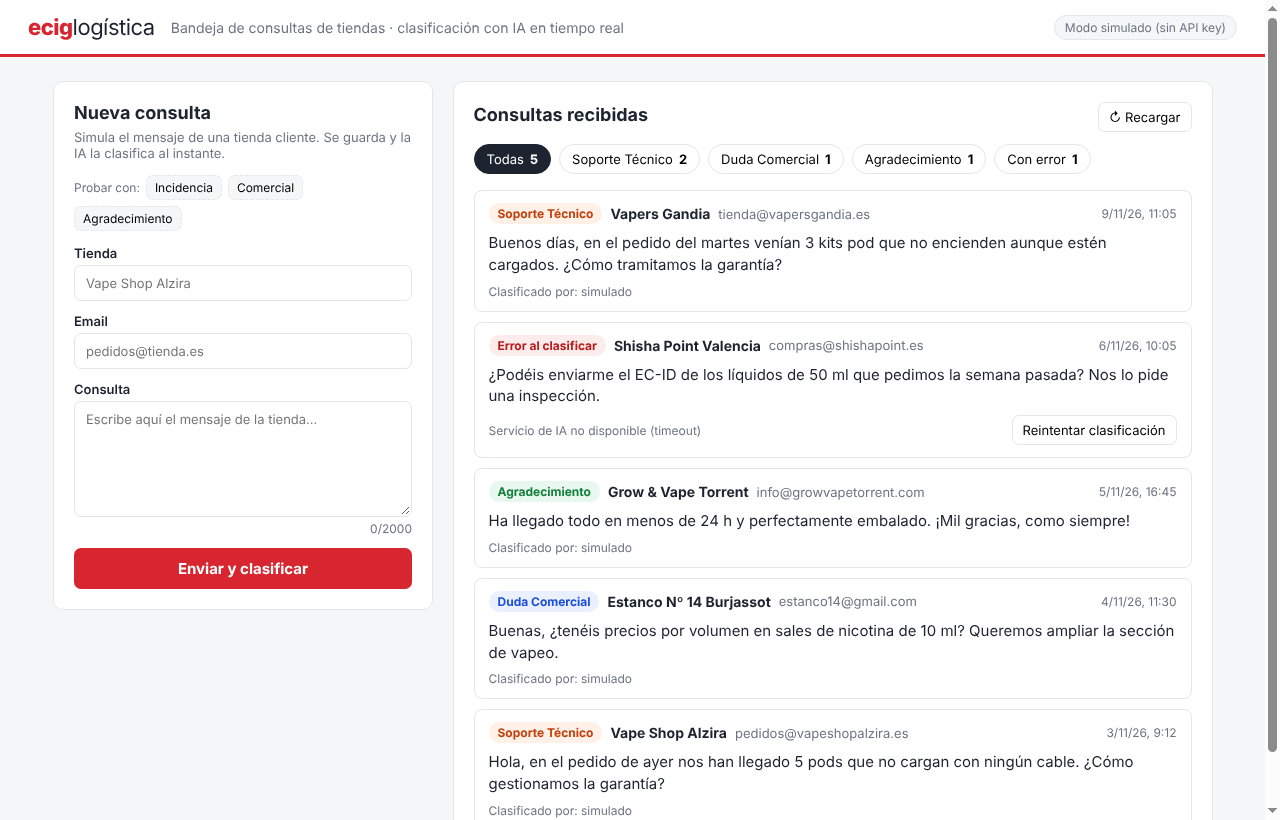
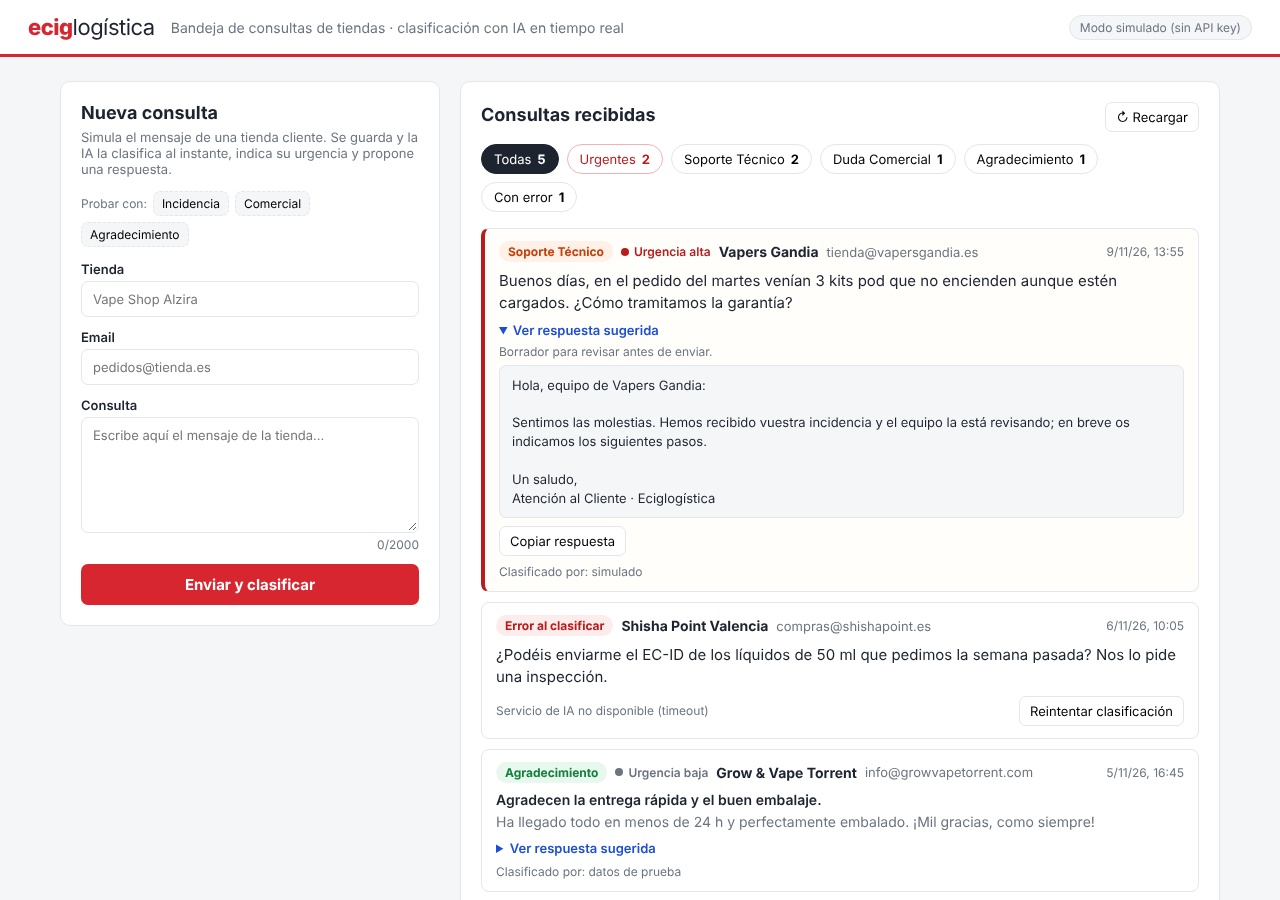
docs: documentar el asistente de respuesta y actualizar la captura

diff --git a/README.md b/README.md
@@ -2,6 +2,8 @@
 
 Una bandeja de entrada para gestionar y clasificar al momento las consultas que las **tiendas cliente** (tiendas de vapeo, estancos, grow shops...) envían a un mayorista como Eciglogística. La idea es sencilla pero sólida: cada consulta se guarda en la base de datos en cuanto llega y una IA la clasifica automáticamente como **Soporte Técnico**, **Duda Comercial** o **Agradecimiento**.
 
+Además, para ahorrar trabajo al equipo de atención al cliente, la IA indica la **urgencia** de cada consulta, la **resume en una línea** y propone un **borrador de respuesta** que una persona revisa antes de enviar.
+
 ![Captura de la aplicación](docs/captura.png)
 
 ---
@@ -32,7 +34,7 @@ Para pararlo todo: `Ctrl + C` y después `docker compose down`. ¿Quieres volver
 
 ### ¿IA real o modo simulado?
 
-* **Sin API key (por defecto):** el sistema funciona en **modo simulado**, clasificando por palabras clave. Así se puede probar el proyecto sin registrarse en ningún sitio ni gastar nada.
+* **Sin API key (por defecto):** el sistema funciona en **modo simulado**: clasifica y estima la urgencia por palabras clave y propone una respuesta a partir de plantillas (el resumen solo lo genera la IA real). Así se puede probar el proyecto sin registrarse en ningún sitio ni gastar nada.
 * **Con IA real:** añade una API key en el `.env` y vuelve a levantarlo con `docker compose up`.
   * **Groq (gratis y rápido):** crea una key en https://console.groq.com/keys y pégala en `AI_API_KEY`.
   * **OpenAI u otro proveedor compatible:** cambia también `AI_BASE_URL` y `AI_MODEL` (en el `.env.example` tienes un ejemplo).
@@ -55,10 +57,10 @@ sequenceDiagram
     W->>W: Valida los datos (422 si no son válidos)
     W->>DB: INSERT estado = 'pendiente'
     W->>AI: POST /clasificar {texto}
-    AI->>LLM: prompt + texto (JSON, temperatura 0, timeout 10 s)
-    LLM-->>AI: {"categoria": "..."}
-    AI->>AI: Comprueba que la categoría es una de las 3
-    AI-->>W: {categoria, clasificado_por}
+    AI->>LLM: prompt + texto (JSON, temperatura 0, timeout 20 s)
+    LLM-->>AI: {categoria, urgencia, resumen, respuesta_sugerida}
+    AI->>AI: Valida la categoría (estricto) y corrige la urgencia si no es válida
+    AI-->>W: {categoria, urgencia, resumen, respuesta_sugerida, clasificado_por}
     W->>DB: UPDATE estado = 'clasificada' (o 'error' si algo falla)
     W-->>U: 201 + consulta clasificada
     U->>U: La interfaz se actualiza sin recargar
@@ -69,7 +71,7 @@ Son **4 contenedores Docker**:
 | Servicio | Tecnología | Qué hace |
 | :--- | :--- | :--- |
 | `web` | PHP 8.3 + Apache | Sirve el frontend y la API REST. Es el **único** que accede a la base de datos. |
-| `ai` | Python 3.12 + Flask + Gunicorn | Recibe el texto y devuelve la categoría. No accede a la base de datos. |
+| `ai` | Python 3.12 + Flask + Gunicorn | Recibe el texto y devuelve su análisis (categoría, urgencia, resumen y respuesta sugerida). No accede a la base de datos. |
 | `db` | MySQL 8 | Almacena la tabla `consultas` y los 4 registros de prueba iniciales (`db/init.sql`). |
 | `phpmyadmin` | phpMyAdmin | Para revisar los registros mientras pruebas. |
 
@@ -77,8 +79,8 @@ Son **4 contenedores Docker**:
 
 | Método | Ruta | Qué hace |
 | :--- | :--- | :--- |
-| `GET` | `/api/consultas.php` | Devuelve el listado (de más reciente a más antiguo) y los totales. Filtros opcionales: `?categoria=Duda Comercial`, `?estado=error` |
-| `POST` | `/api/consultas.php` | Crea y clasifica una consulta. Body: `{"nombre_tienda", "email", "texto"}` → `201` |
+| `GET` | `/api/consultas.php` | Devuelve el listado (de más reciente a más antiguo) y los totales. Filtros opcionales: `?categoria=Duda Comercial`, `?estado=error`, `?urgencia=alta` |
+| `POST` | `/api/consultas.php` | Crea y analiza una consulta. Body: `{"nombre_tienda", "email", "texto"}` → `201` |
 | `POST` | `/api/reintentar.php` | Vuelve a clasificar una consulta que quedó en estado `error`. Body: `{"id"}` |
 | `GET` | `/api/estado.php` | Indica si la IA está activa y qué modelo usa. |
 
@@ -102,7 +104,7 @@ curl -X POST http://localhost:8080/api/consultas.php \
 ├── ai-service/                     # Microservicio en Python
 │   ├── app.py                      # API Flask: POST /clasificar, GET /health
 │   ├── classifier.py               # Lógica principal: prompt, llamada al LLM y modo simulado
-│   ├── tests/test_classifier.py    # 16 tests con pytest
+│   ├── tests/test_classifier.py    # 21 tests con pytest
 │   └── Dockerfile
 └── php/
     ├── Dockerfile
@@ -126,6 +128,8 @@ curl -X POST http://localhost:8080/api/consultas.php \
 * **No confiar a ciegas en la IA:** temperatura 0, salida JSON forzada (`response_format`) y validación de la categoría en tres sitios: en Python, en PHP y en la base de datos con un `ENUM`.
 * **Protección contra prompt injection:** el texto del usuario va en un mensaje `user` separado del prompt de sistema. El prompt indica que se ignore cualquier instrucción incluida en el mensaje y, si aun así el modelo devolviera algo inventado, el código lo rechaza.
 * **Contexto de negocio en el prompt:** se explica al modelo qué es Eciglogística, qué incluye cada categoría (envíos o productos defectuosos ➜ Soporte; tarifas, stock o altas de tiendas ➜ Comercial) y cómo tratar los casos mixtos (por ejemplo, *"gracias por el pedido, pero llegó un bote roto"* ➜ Soporte).
+* **La IA ayuda, la persona decide:** la urgencia y el resumen ayudan a priorizar, y la respuesta sugerida es solo un borrador que se revisa y se copia con un clic. El prompt prohíbe inventar datos que la IA no conoce (precios, plazos, stock o números de seguimiento): en su lugar, el borrador indica que el equipo lo revisará.
+* **Validación estricta solo donde importa:** la categoría es crítica y, si no es válida, la consulta queda en `error`. Los campos de ayuda no lo son: si la urgencia llega mal se guarda como `media`, y un resumen vacío se deja sin rellenar, en lugar de perder toda la clasificación.
 * **Proveedor de IA intercambiable:** funciona con cualquier API compatible con OpenAI cambiando dos variables en el `.env`.
 * **Sin frameworks pesados:** al ser un proyecto acotado no usé Laravel, pero organicé el PHP en capas (repositorio, servicio, cliente HTTP) para que migrarlo a un framework fuera sencillo si el proyecto creciera.
 
@@ -136,7 +140,7 @@ curl -X POST http://localhost:8080/api/consultas.php \
 * **Validación en el servidor:** longitudes y formato del email se validan en el backend. Si algo no es válido, se devuelve un `422` con el error de cada campo.
 * **Errores controlados:** ante un error inesperado, el cliente recibe un `500` genérico y los detalles técnicos quedan solo en el log del servidor.
 * **Secretos protegidos:** las claves van en el `.env` (incluido en el `.gitignore`) y el servicio de Python solo es accesible desde la red interna de Docker.
-* **Timeouts:** PHP corta si Python tarda más de 15 s, y Python corta si el LLM tarda más de 10 s.
+* **Timeouts:** PHP corta si Python tarda más de 30 s, y Python corta si el LLM tarda más de 20 s (redactar el borrador de respuesta lleva algo más de tiempo que solo clasificar).
 
 ---
 
@@ -148,7 +152,7 @@ Para ejecutar los tests de Python con pytest:
 docker compose exec ai python -m pytest -v
 ```
 
-Cubren el modo simulado, el rechazo de respuestas no válidas de la IA, el JSON malformado, los timeouts del proveedor y la validación de la API (todo con la IA simulada mediante mocks, sin gastar tokens).
+Cubren el modo simulado (categoría, urgencia y respuesta), el rechazo de categorías no válidas, la corrección de campos de ayuda mal formados, el JSON malformado, los timeouts del proveedor y la validación de la API (todo con la IA simulada mediante mocks, sin gastar tokens).
 
 ---
 
@@ -177,7 +181,8 @@ Me quedo con una regla que lo resume todo: **los datos del usuario nunca se trat
 ## 🔮 Mejoras si tuviera más tiempo
 
 * Una **cola de tareas asíncrona** (Redis + un worker) para clasificar en segundo plano si el volumen de consultas fuera muy alto, avisando a la interfaz en tiempo real con Server-Sent Events.
-* Que la IA devuelva también un nivel de **urgencia/prioridad**, un resumen de una línea y un borrador de respuesta para ayudar al equipo.
+* **Enviar la respuesta** directamente desde el panel (por email) tras revisarla, guardando qué persona la aprobó.
+* Detectar en el mensaje datos útiles como el **número de pedido** o el **producto** mencionado, para enlazarlo con el ERP.
 * **Autenticación** para proteger el panel y **paginación** en el listado.
 * Tests de integración para la parte PHP (PHPUnit) y un pipeline de CI con GitHub Actions.
 * Conectar la entrada de consultas a un buzón de correo real (IMAP) o a un formulario de contacto externo.
